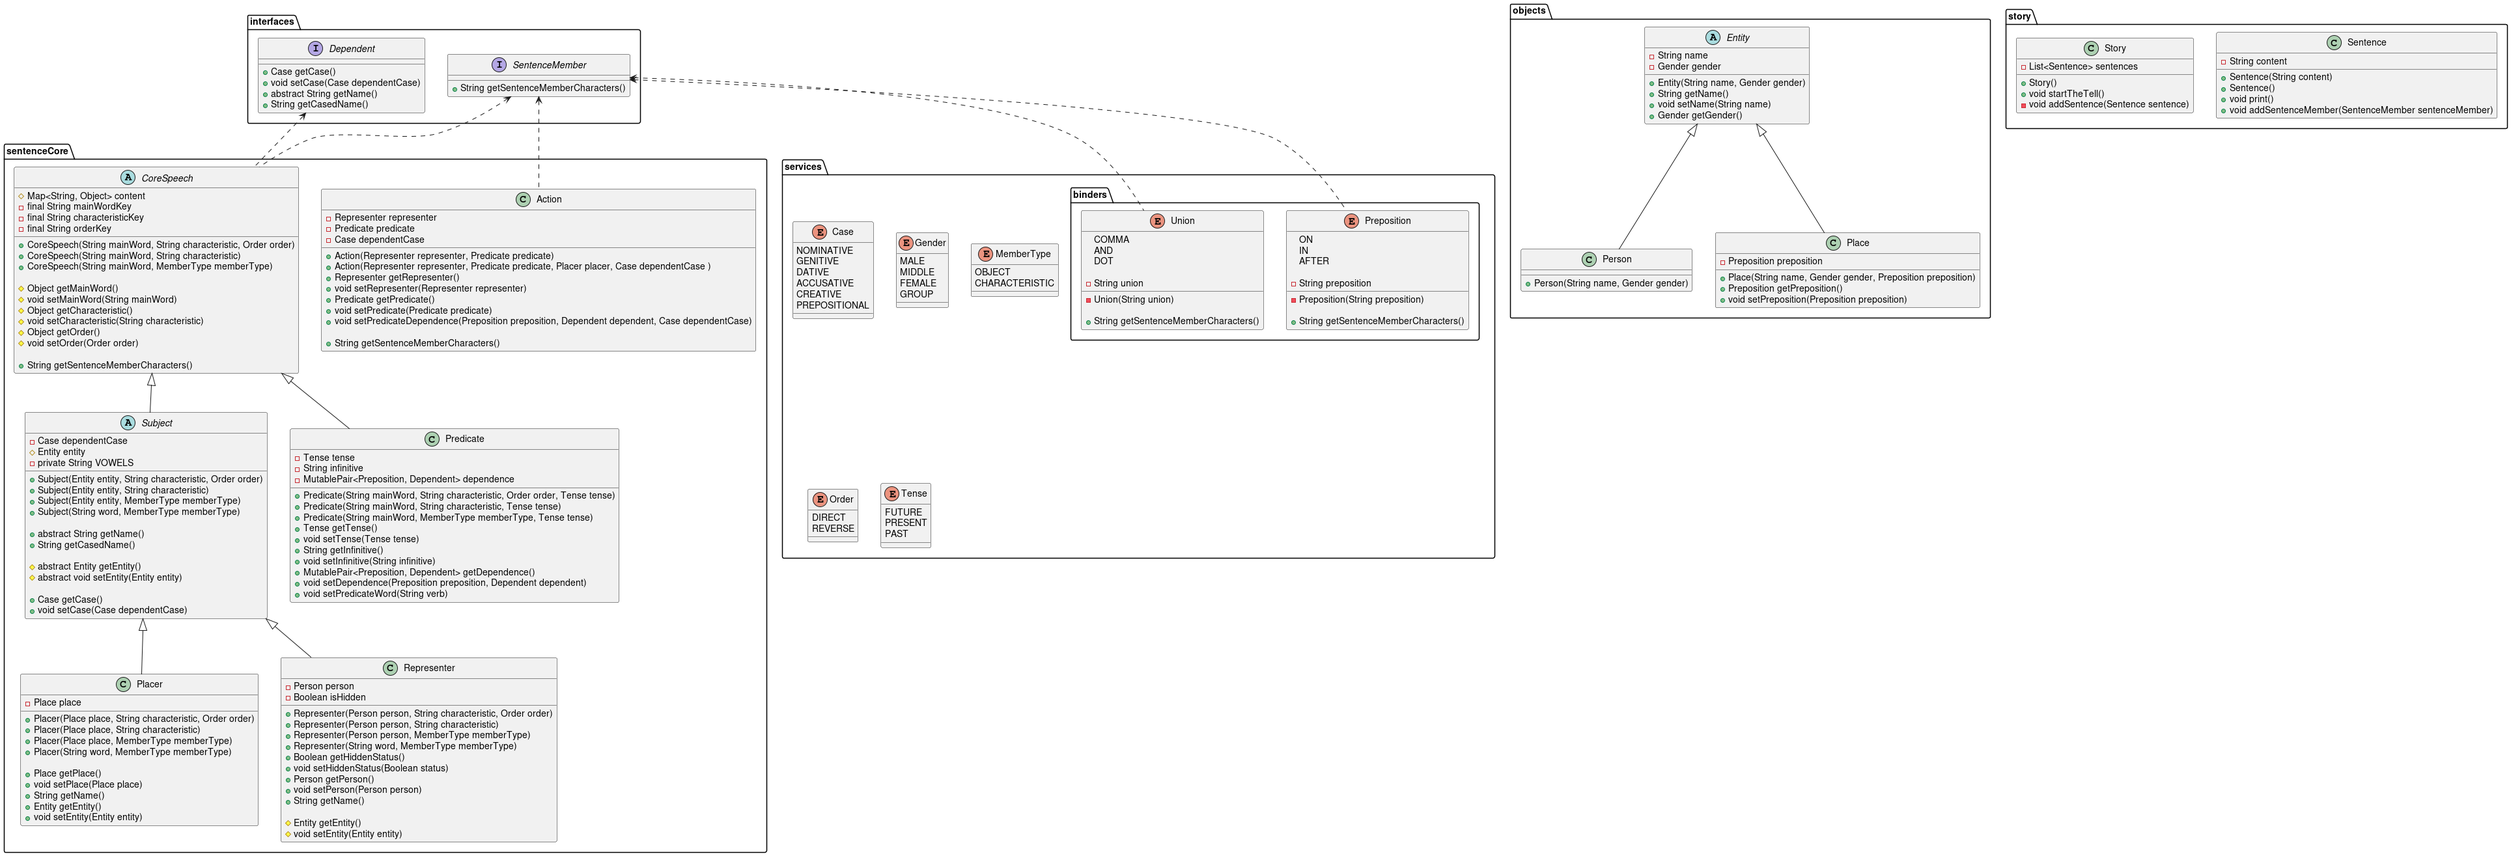
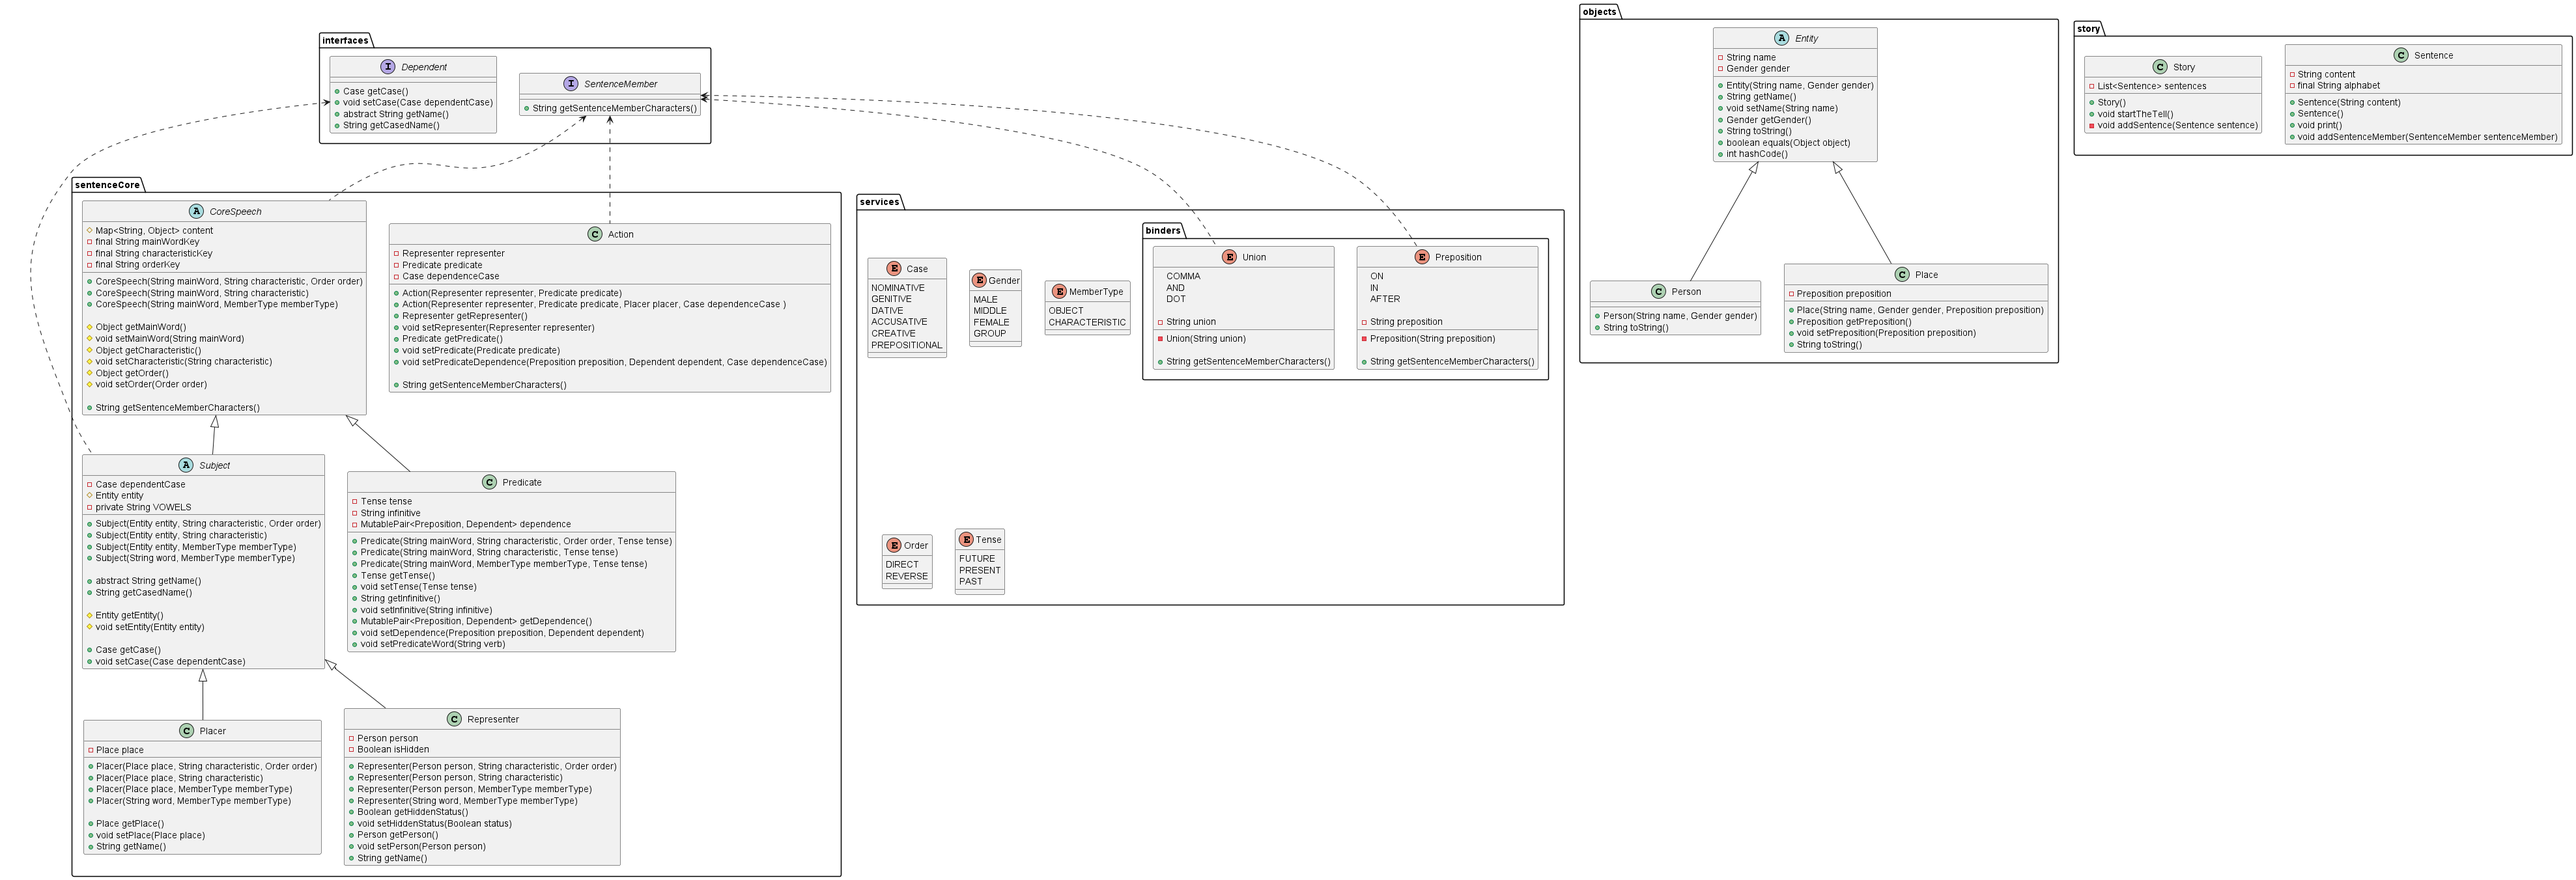
🍄 fixes

diff --git a/first-course/programming/lab3/gradle-build/src/main/java/story/Sentence.java b/first-course/programming/lab3/gradle-build/src/main/java/story/Sentence.java
@@ -7,6 +7,7 @@ import services.binders.Union;
 
 public class Sentence {
     private String content;
+    private final String alphabet = "АБВГДЕЁЖЗИЙКЛМНОПРСТУФХЦЧШЩЪЫЬЭЮЯабвгдеёжзийклмнопрстуфхцчшщъыьэюя";
 
     public Sentence(String content) {
         this.content = content;
@@ -18,8 +19,18 @@ public class Sentence {
 
     public void print() {
         for (int i = 0; i < content.length() - 1; i++) {
-            if (content.charAt(i + 1) != ',' && content.charAt(i + 1) != '.') {
-                System.out.print(content.charAt(i));
+            if (content.charAt(i + 1) != '.') {
+                if (content.charAt(i + 1) == ',') {
+                    for (int j = 0; j < alphabet.length() - 1; j++) {
+                        if (content.charAt(i) == alphabet.charAt(j)) {
+                            System.out.print(content.charAt(i));
+                            break;
+                        }
+                    }
+                } 
+                else {
+                    System.out.print(content.charAt(i));
+                }
             }
         }
         System.out.print('\n');

diff --git a/first-course/programming/lab3/gradle-build/src/main/java/story/Story.java b/first-course/programming/lab3/gradle-build/src/main/java/story/Story.java
@@ -64,7 +64,7 @@ public class Story {
         Action poohAndPigletHide = new Action(representerPoohAndPiglet, hide, bushesPlacer, Case.PREPOSITIONAL);
         Action poohAndPigletListening = new Action(representerPoohAndPiglet, listening);
 
-        Action nothingWasQuite = new Action(representerNothing, be);
+        Action nothingWasQuite = new Action(representerNothing, be, forestPlacer, Case.PREPOSITIONAL);
 
         Action poohAndPigletSee = new Action(representerPoohAndPiglet, see);
         Action poohAndPigletHear = new Action(representerPoohAndPiglet, hear);
@@ -125,8 +125,7 @@ public class Story {
         // fourth sentence
         Sentence fourthSentence = new Sentence();
 
-        fourthSentence.addSentenceMember(Preposition.IN);
-        fourthSentence.addSentenceMember(forestPlacer);
+        representerNothing.setHiddenStatus(true);
         fourthSentence.addSentenceMember(nothingWasQuite);
 
         representerPoohAndPiglet.setHiddenStatus(true);
@@ -149,7 +148,6 @@ public class Story {
         fifthSentence.addSentenceMember(Union.DOT);
 
         addSentence(fifthSentence);
-
     }
 
     public void startTheTell() {

diff --git a/first-course/programming/lab3/gradle-build/src/main/java/objects/Entity.java b/first-course/programming/lab3/gradle-build/src/main/java/objects/Entity.java
@@ -1,6 +1,7 @@
 package objects;
 
 import services.Gender;
+import java.util.Objects;
 
 public abstract class Entity {
     private String name;
@@ -21,5 +22,28 @@ public abstract class Entity {
 
     public Gender getGender() {
         return gender;
+    }
+
+    @Override
+    public String toString() {
+        return "Entity{" +
+            "name=" + getName() + ";" +
+            "gender=" + getGender();
+    }
+
+    @Override
+    public boolean equals(Object object) {
+        if (this == object) return true;
+        if (object == null || getClass() != object.getClass()) return false;
+        Entity comparedEntity = (Entity) object;
+        if (name == comparedEntity.name && gender == comparedEntity.gender) {
+            return true;
+        }
+        else return false;
+    }
+
+    @Override
+    public int hashCode() {
+        return Objects.hash(name, gender);
     }
 }

diff --git a/first-course/programming/lab3/gradle-build/src/main/java/sentenceCore/Subject.java b/first-course/programming/lab3/gradle-build/src/main/java/sentenceCore/Subject.java
@@ -31,6 +31,14 @@ public abstract class Subject extends CoreSpeech implements Dependent {
         setMainWord(name);
     }
 
+    protected Entity getEntity() {
+       return entity; 
+    };
+
+    protected void setEntity(Entity entity) {
+       this.entity = entity; 
+    };
+
     @Override
     public abstract String getName(); 
 
@@ -38,10 +46,6 @@ public abstract class Subject extends CoreSpeech implements Dependent {
     public String getCasedName() {
         return (String)getMainWord();
     }
-
-    protected abstract Entity getEntity();
-
-    protected abstract void setEntity(Entity entity);
 
     @Override
     public Case getCase() {

diff --git a/first-course/programming/lab3/gradle-build/src/main/java/objects/Place.java b/first-course/programming/lab3/gradle-build/src/main/java/objects/Place.java
@@ -18,4 +18,10 @@ public class Place extends Entity {
     public void setPreposition(Preposition preposition) {
         this.preposition = preposition;
     }
+
+    public String toString() {
+        return super.toString() + ";" +
+            "preposition=" + getPreposition() +
+            "}";
+    }
 }

diff --git a/first-course/programming/lab3/gradle-build/src/main/java/sentenceCore/Representer.java b/first-course/programming/lab3/gradle-build/src/main/java/sentenceCore/Representer.java
@@ -52,12 +52,4 @@ public class Representer extends Subject {
     public String getName() {
         return entity.getName();
     }
-
-    protected Entity getEntity() {
-        return entity;
-    }
-
-    protected void setEntity(Entity entity) {
-        this.entity = entity;
-    }
 }

diff --git a/first-course/programming/lab3/gradle-build/src/main/java/sentenceCore/Placer.java b/first-course/programming/lab3/gradle-build/src/main/java/sentenceCore/Placer.java
@@ -43,12 +43,4 @@ public class Placer extends Subject {
     public String getName() {
         return entity.getName();
     }
-
-    public Entity getEntity() {
-        return entity;
-    }
-
-    public void setEntity(Entity entity) {
-        this.entity = entity;
-    }
 }

diff --git a/first-course/programming/lab3/gradle-build/src/main/java/objects/Person.java b/first-course/programming/lab3/gradle-build/src/main/java/objects/Person.java
@@ -6,4 +6,9 @@ public class Person extends Entity {
     public Person(String name, Gender gender) {
         super(name, gender);
     }
+
+    public String toString() {
+        return super.toString() + 
+            "}";
+    }
 }
